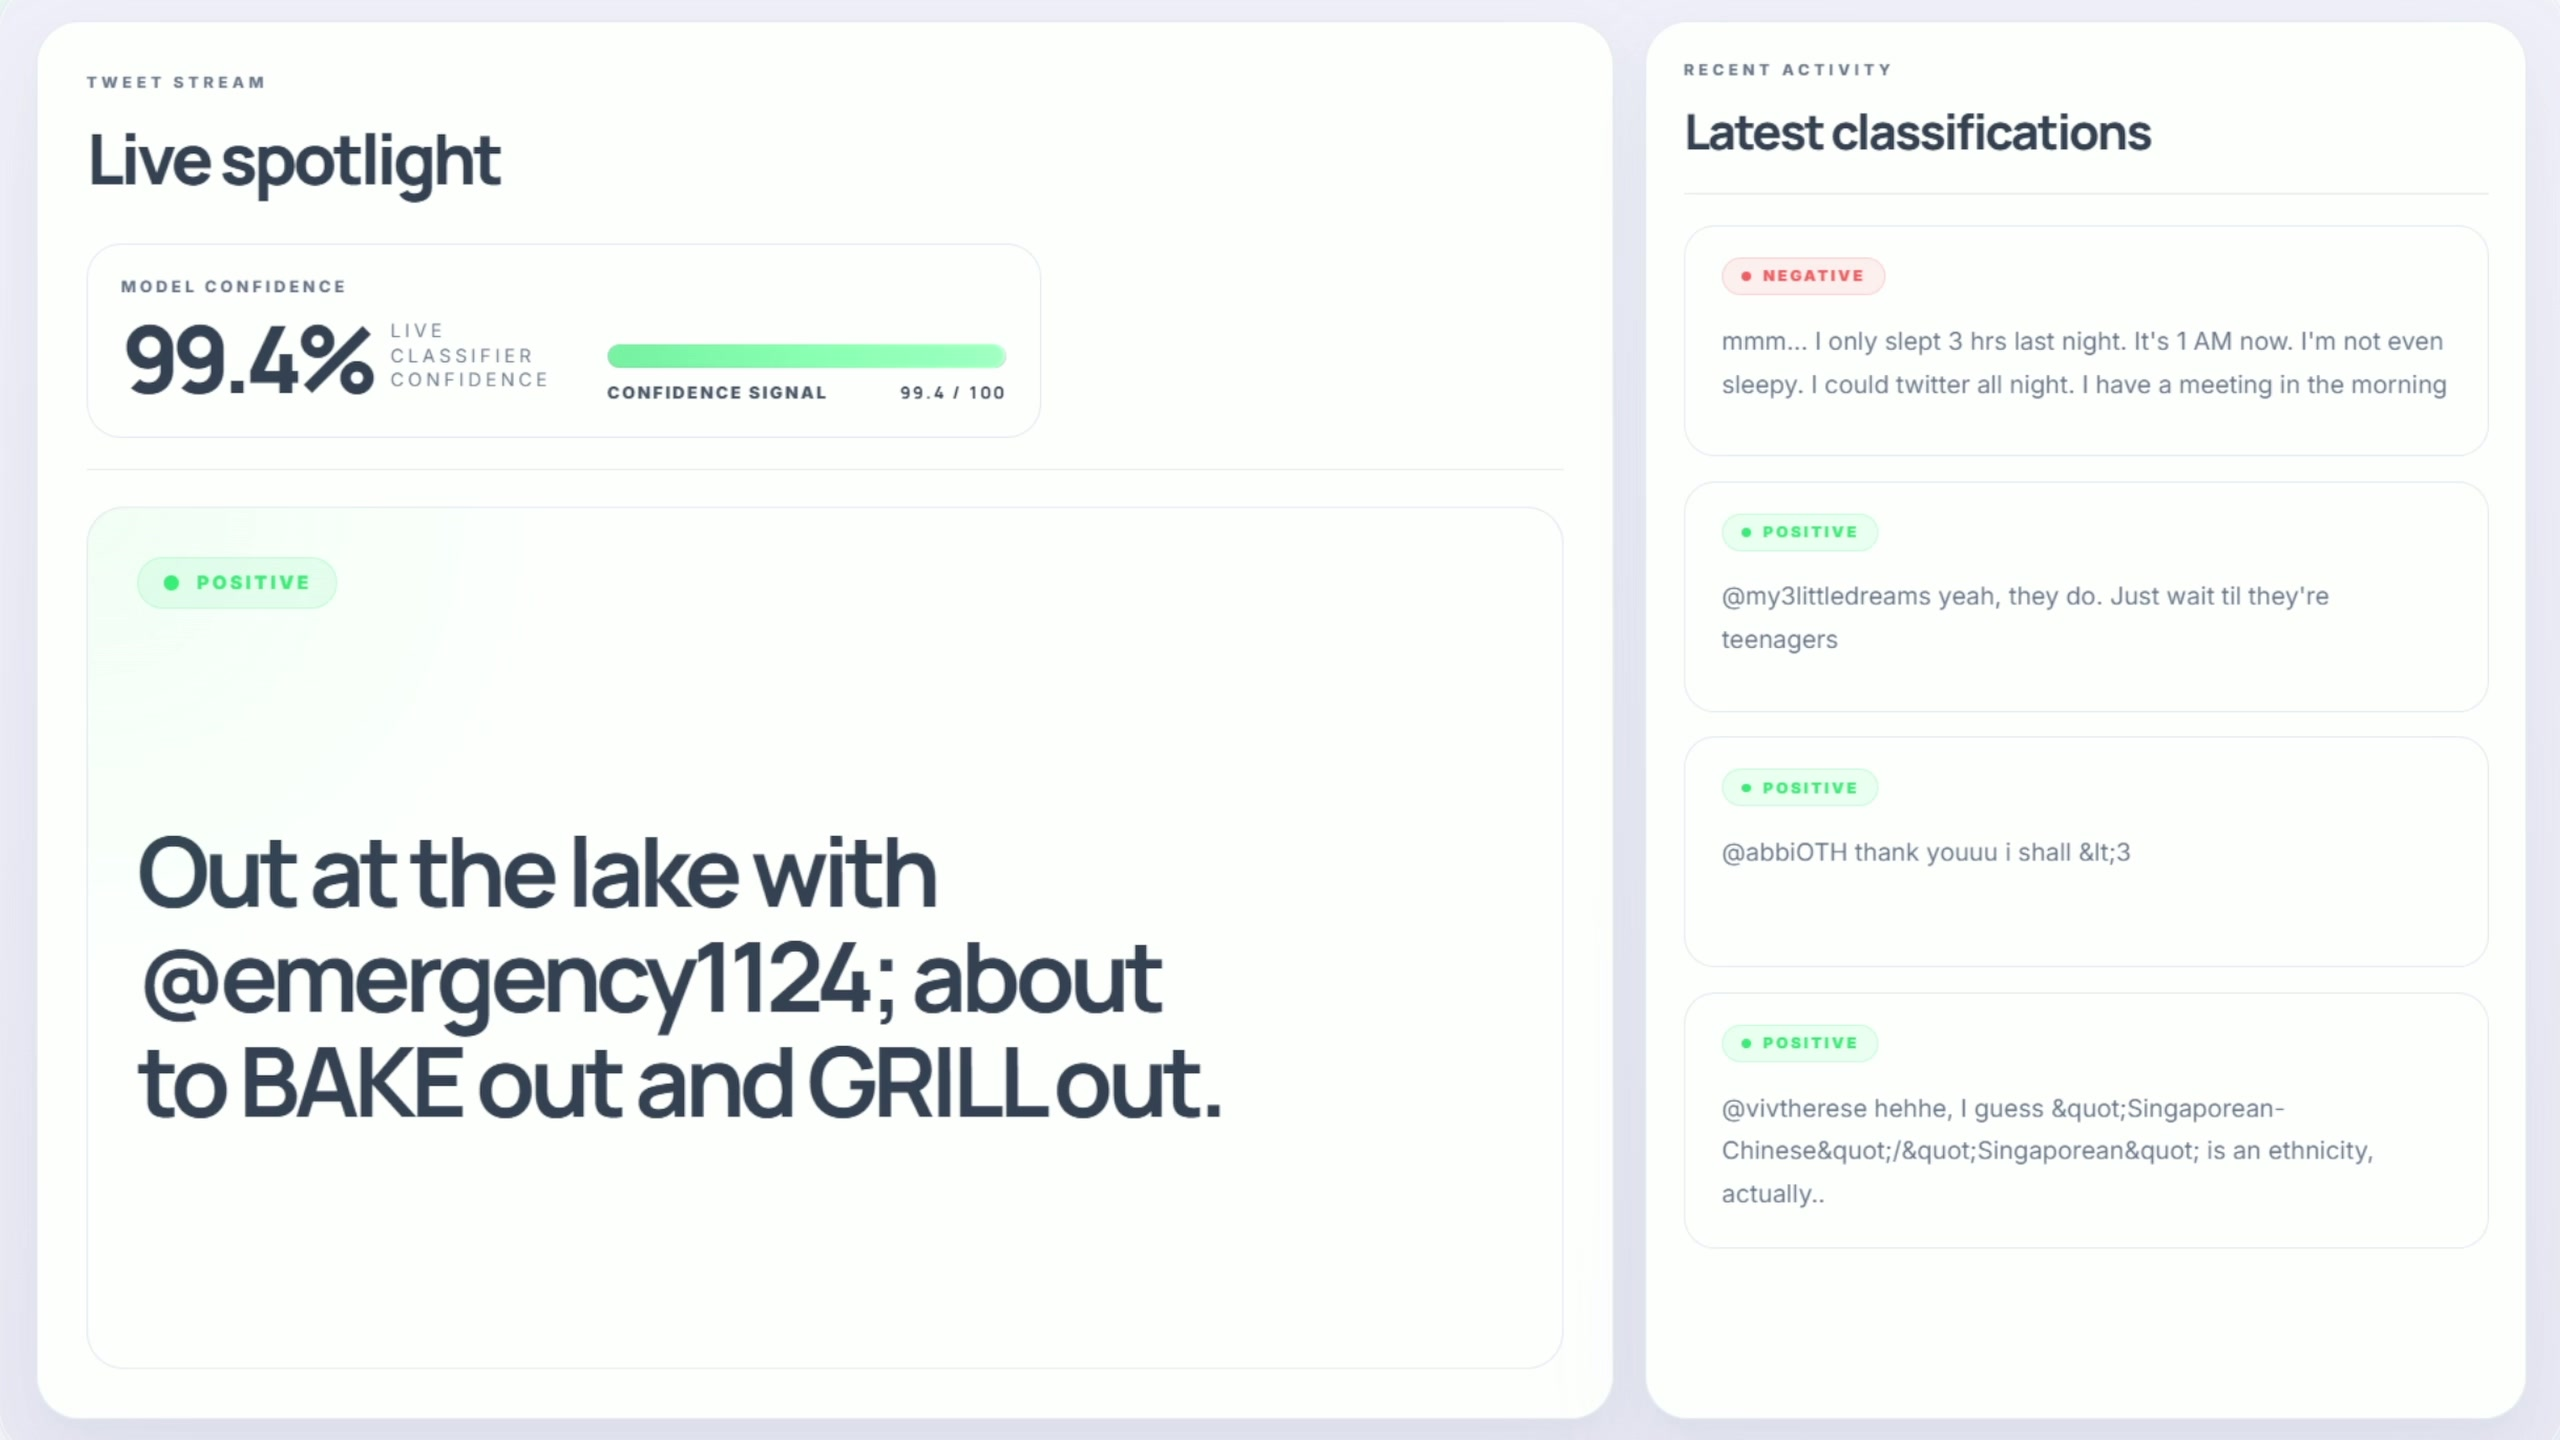
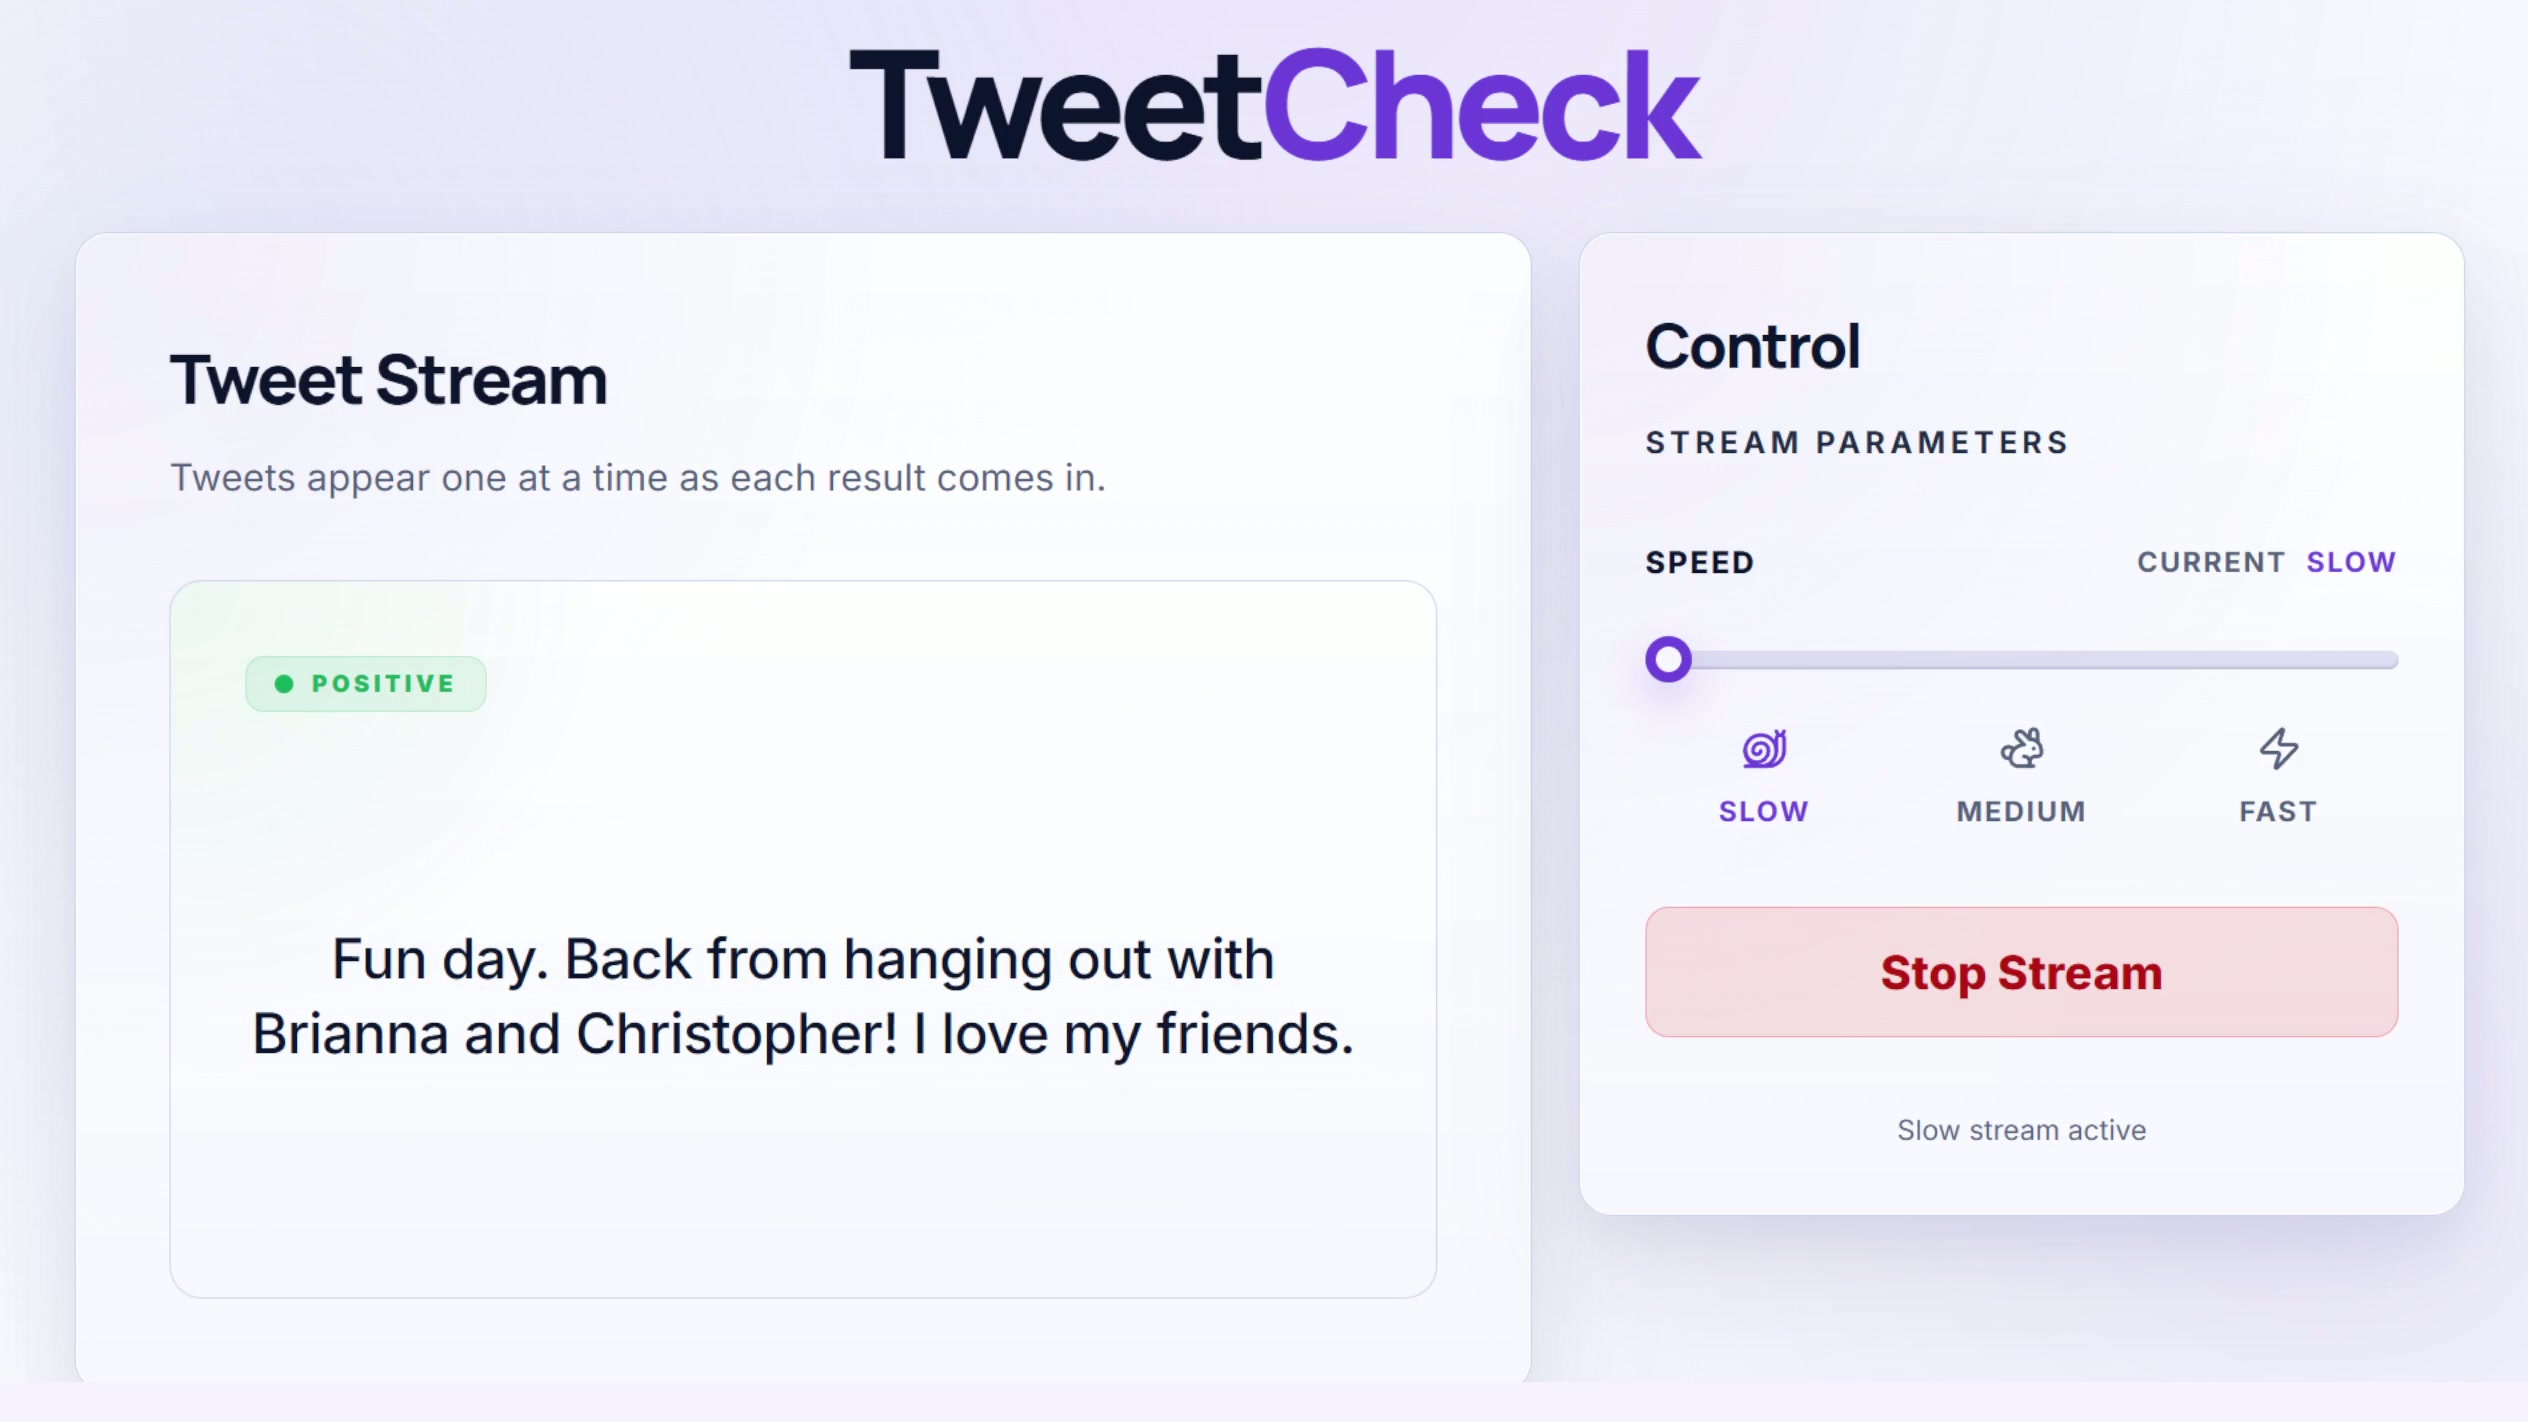
New Project Video

diff --git a/content/projects.js b/content/projects.js
@@ -9,7 +9,7 @@ export const projects = [
     tags: ['PyTorch', 'Go', 'Kafka', 'BERT', 'FastAPI'],
     githubUrl: 'https://github.com/ShantnuKaushal/TweetCheck',
     liveUrl: '',
-    videoSrc: '/videos/projects/tweetcheck-demo.mov',
+    videoSrc: '/videos/projects/tweetcheck-demo.mp4',
     posterSrc: '/images/projects/tweetcheck-poster.jpg',
   },
   {